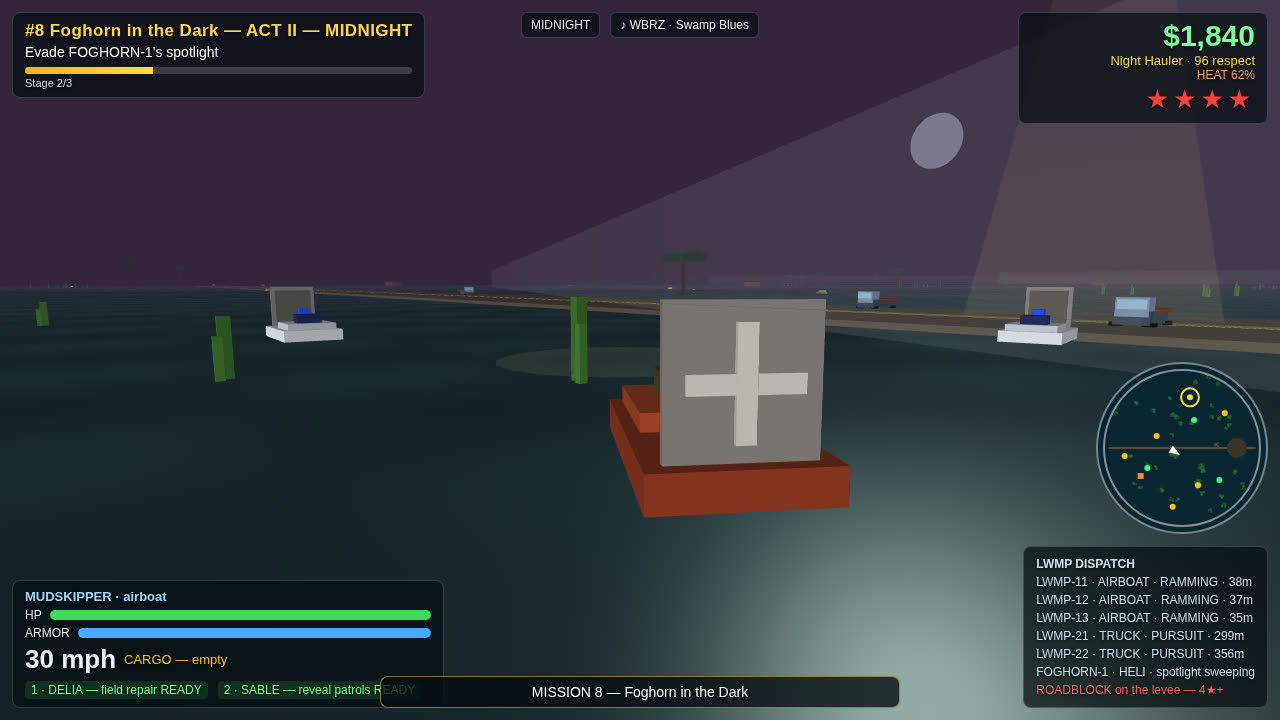
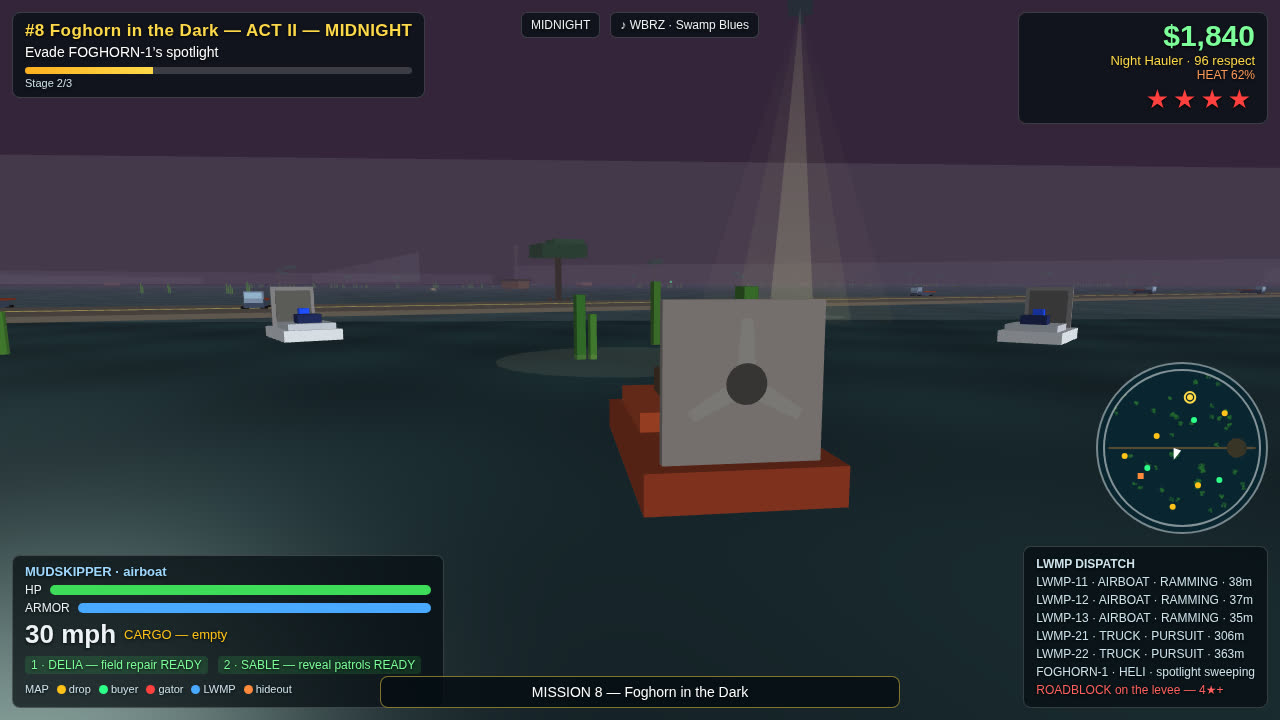
Fix v6 for resubmit: night-aggressive gators, layered heli beam, 3-blade fan, visible gator backs, dawn water glitter, HUD legend, payout docked left
- logic.js: gatorAggression()/gatorHuntRange() — hunt range, closing speed and
  bite damage peak at midnight (1.6x); +4 dmg on midnight bites
- game.js: heli beam as 3 layers (halo/mid/core); airboat + patrol fan rebuilt
  as a real 3-blade prop with hub; gator body lighter with raised back plate
  and dorsal scutes; dawn glitter mesh for the sun-path
- main.js: gator AI uses night aggression; heli beam drawn layered; wake pool
  under each gator; dawn glitter + sun-path pools when timeOfDay > 0.66;
  shot 1 heli lowered/closer (h 34, 70m) and gators staged in frame
- index.html: minimap legend (drop/buyer/gator/LWMP/hideout); payout panel
  moved from frame center to the left side
- main.ts: fail loudly on missing game/index.html, empty screenshots/ or a
  suspiciously short dossier
- serve.ts: fix path-traversal prefix check (game2/ sibling), no-cache header
- shots.json: per-shot descriptions of the new visuals
- test-logic.mjs: 7 new tests for night aggression (90 total)
- README.md: documents night-aggressive gators, layered beam, 3-blade prop,
  dawn glitter, HUD legend
- screenshots: all 4 regenerated from the fixed game, zero console errors

diff --git a/game/game.js b/game/game.js
@@ -119,16 +119,19 @@ export class MeshBuilder {
     }
     for (let i = 0; i < seg; i++) this.tri(apex, ring[i], ring[(i+1)%seg]);
   }
-  // open cone: apex at origin pointing down (-Y), base radius r at y=-len
-  coneDown(r, len, c, seg = 14) {
-    const apex = this.vert(0, 0, 0, [c[0], c[1], c[2], 0.02], 0, -1, 0);
+  // open cone: apex at origin pointing down (-Y), base radius r at y=-len.
+  // Alpha is a parameter so a beam can be built as layers: a wide faint halo,
+  // a mid cone, and a narrow bright core — one flat cone reads as a pale triangle.
+  coneDownAlpha(r, len, c, aRing, aApex = 0.02, seg = 14) {
+    const apex = this.vert(0, 0, 0, [c[0], c[1], c[2], aApex], 0, -1, 0);
     const ring = [];
     for (let i = 0; i < seg; i++) {
       const a = (i / seg) * Math.PI * 2;
-      ring.push(this.vert(Math.cos(a)*r, -len, Math.sin(a)*r, [c[0], c[1], c[2], 0.10], Math.cos(a)*0.4, -0.6, Math.sin(a)*0.4));
+      ring.push(this.vert(Math.cos(a)*r, -len, Math.sin(a)*r, [c[0], c[1], c[2], aRing], Math.cos(a)*0.4, -0.6, Math.sin(a)*0.4));
     }
     for (let i = 0; i < seg; i++) this.tri(apex, ring[i], ring[(i+1)%seg]);
   }
+  coneDown(r, len, c, seg = 14) { this.coneDownAlpha(r, len, c, 0.10, 0.02, seg); }
   build(gl) {
     const mesh = { count: this.idx.length };
     mesh.vbo = gl.createBuffer(); gl.bindBuffer(gl.ARRAY_BUFFER, mesh.vbo);
@@ -361,6 +364,25 @@ export function buildWorldMeshes(gl, world) {
 }
 
 // ---------------------------------------------------------------- entity meshes (unit, origin-centered)
+// A real 3-blade airboat prop: three tapered blades at 120 degrees in the
+// vertical XY plane plus a hub disc. The old vertical+horizontal boxes read
+// from behind as a flat "+" sign, not a fan.
+function prop3(mb, z) {
+  const cx = 0, cy = 2.2, len = 1.05, hw = 0.17;
+  const blade = [0.82, 0.82, 0.78, 1];
+  for (const deg of [90, 210, 330]) {
+    const a = deg * Math.PI / 180;
+    const dx = Math.cos(a), dy = Math.sin(a), px = -dy, py = dx;
+    mb.quad(
+      [cx + px*hw, cy + py*hw, z],
+      [cx + dx*len + px*hw*0.55, cy + dy*len + py*hw*0.55, z],
+      [cx + dx*len - px*hw*0.55, cy + dy*len - py*hw*0.55, z],
+      [cx - px*hw, cy - py*hw, z],
+      blade);
+  }
+  mb.discXY(cx, cy, z - 0.02, 0.34, [0.22, 0.22, 0.20, 1]);
+}
+
 export function buildEntityMeshes(gl) {
   // airboat "Mudskipper": hull + vertical rear fan + seat + bow light
   const ab = new MeshBuilder();
@@ -369,8 +391,7 @@ export function buildEntityMeshes(gl) {
   ab.box(0, 1.4, 1.6, 1.4, 0.8, 1.2, [0.30, 0.22, 0.14, 1]); // seat
   ab.box(0, 2.2, -2.7, 2.7, 2.7, 0.25, [0.5, 0.48, 0.46, 1]); // fan frame (vertical)
   ab.box(0, 2.2, -2.55, 2.2, 2.2, 0.12, [0.32, 0.32, 0.30, 1]); // fan disc (dark, so the blades read)
-  ab.box(0, 2.2, -2.95, 0.35, 2.0, 0.14, [0.78, 0.78, 0.74, 1]); // fan blade vertical (behind frame, visible from the rear)
-  ab.box(0, 2.2, -2.95, 2.0, 0.35, 0.14, [0.78, 0.78, 0.74, 1]); // fan blade horizontal
+  prop3(ab, -2.95); // 3-blade prop + hub, behind the frame, visible from the rear
   ab.box(0, 1.5, 2.9, 0.5, 0.4, 0.5, [1.0, 0.95, 0.6, 1]); // bow light
   const airboat = ab.build(gl);
 
@@ -380,8 +401,7 @@ export function buildEntityMeshes(gl) {
   pb.box(0, 1.4, 1.6, 1.4, 0.8, 1.2, [0.10, 0.15, 0.35, 1]);
   pb.box(0, 2.2, -2.7, 2.7, 2.7, 0.25, [0.5, 0.5, 0.5, 1]); // fan frame (vertical)
   pb.box(0, 2.2, -2.55, 2.2, 2.2, 0.12, [0.35, 0.35, 0.33, 1]); // fan disc
-  pb.box(0, 2.2, -2.95, 0.35, 2.0, 0.14, [0.78, 0.78, 0.74, 1]);
-  pb.box(0, 2.2, -2.95, 2.0, 0.35, 0.14, [0.78, 0.78, 0.74, 1]);
+  prop3(pb, -2.95); // 3-blade prop + hub
   pb.box(0, 1.9, 0.5, 0.6, 0.5, 0.6, [0.1, 0.3, 1.0, 1]); // blue light bar
   const patrolBoat = pb.build(gl);
 
@@ -396,9 +416,16 @@ export function buildEntityMeshes(gl) {
   const truck = tr.build(gl);
 
   const gt = new MeshBuilder();
-  gt.box(0, 0.35, 0, 1.1, 0.5, 3.6, [0.10, 0.22, 0.08, 1]); // body
-  gt.box(0, 0.4, 2.4, 0.9, 0.35, 1.2, [0.12, 0.25, 0.09, 1]); // head
-  gt.box(0, 0.25, -2.8, 0.5, 0.3, 2.2, [0.09, 0.20, 0.07, 1]); // tail
+  // The old body was near-black and sat flush with the water, so only the eyes
+  // read. Now: a wider, lighter-olive body, a raised back plate, and a row of
+  // dorsal scutes along the spine — the silhouette breaks the waterline.
+  gt.box(0, 0.35, 0, 1.3, 0.5, 3.6, [0.14, 0.30, 0.10, 1]); // body (lighter olive)
+  gt.box(0, 0.62, 0, 0.75, 0.28, 3.0, [0.20, 0.40, 0.13, 1]); // raised back plate
+  for (let i = 0; i < 5; i++) {
+    gt.box(0, 0.88, -1.2 + i * 0.6, 0.2, 0.3, 0.2, [0.26, 0.48, 0.16, 1]); // dorsal scutes
+  }
+  gt.box(0, 0.4, 2.4, 0.9, 0.35, 1.2, [0.16, 0.33, 0.11, 1]); // head
+  gt.box(0, 0.25, -2.8, 0.5, 0.3, 2.2, [0.12, 0.27, 0.09, 1]); // tail
   gt.box(-0.25, 0.62, 2.7, 0.18, 0.18, 0.18, [1.0, 0.9, 0.2, 1]); // eye L
   gt.box(0.25, 0.62, 2.7, 0.18, 0.18, 0.18, [1.0, 0.9, 0.2, 1]); // eye R
   const gator = gt.build(gl);
@@ -416,6 +443,15 @@ export function buildEntityMeshes(gl) {
   const cone = new MeshBuilder();
   cone.coneDown(9, 46, [1.0, 0.95, 0.7, 1]);
   const coneMesh = cone.build(gl);
+  // layered heli beam: a wide faint halo + a narrow bright core around the mid
+  // cone, so the FOGHORN-1 spotlight reads as a directed shaft of light with a
+  // hot center instead of one flat pale triangle.
+  const coneCoreB = new MeshBuilder();
+  coneCoreB.coneDownAlpha(3.5, 46, [1.0, 0.97, 0.8, 1], 0.34, 0.10, 14);
+  const coneCore = coneCoreB.build(gl);
+  const coneHaloB = new MeshBuilder();
+  coneHaloB.coneDownAlpha(15, 46, [1.0, 0.95, 0.7, 1], 0.045, 0.01, 14);
+  const coneHalo = coneHaloB.build(gl);
 
   // player spotlight: beam tilted forward so it reads as a searchlight, not a pillar
   const spot = new MeshBuilder();
@@ -425,6 +461,20 @@ export function buildEntityMeshes(gl) {
   const pool = new MeshBuilder();
   pool.disc(0, 0, 0, 6, [1.0, 0.95, 0.7, 0.10]);
   const poolMesh = pool.build(gl);
+
+  // dawn glitter: scattered warm flecks on the water for the pre-dawn/dawn
+  // sun-path — drawn ahead of the player when timeOfDay > 0.66 so the dawn
+  // water is not one flat dark sheet. Deterministic layout, seeded by index.
+  const glit = new MeshBuilder();
+  {
+    const grnd = (() => { let a = 4242; return () => { a |= 0; a = (a + 0x6d2b79f5) | 0; let t = Math.imul(a ^ (a >>> 15), 1 | a); t = (t + Math.imul(t ^ (t >>> 7), 61 | t)) ^ t; return ((t ^ (t >>> 14)) >>> 0) / 4294967296; }; })();
+    for (let i = 0; i < 16; i++) {
+      const gx = (grnd() * 2 - 1) * 34, gz = (grnd() * 2 - 1) * 18;
+      const gr = 0.5 + grnd() * 0.9;
+      glit.disc(gx, 0, gz, gr, [1.0, 0.72, 0.32, 0.42 + grnd() * 0.2], 10);
+    }
+  }
+  const glitterMesh = glit.build(gl);
 
   // gator eye glow (emissive, drawn at each gator's head)
   const eye = new MeshBuilder();
@@ -442,7 +492,7 @@ export function buildEntityMeshes(gl) {
   boat.box(0, 0.9, -0.6, 1.8, 0.7, 2.2, [0.7, 0.65, 0.5, 1]);
   const trafficBoat = boat.build(gl);
 
-  return { airboat, patrolBoat, truck, gator, heli, rotor: rotorMesh, cone: coneMesh, spotCone: spotConeMesh, pool: poolMesh, eye: eyeMesh, person: personMesh, trafficBoat };
+  return { airboat, patrolBoat, truck, gator, heli, rotor: rotorMesh, cone: coneMesh, coneCore, coneHalo, spotCone: spotConeMesh, pool: poolMesh, glitter: glitterMesh, eye: eyeMesh, person: personMesh, trafficBoat };
 }
 
 // fog bank drift positions (deterministic) — low, wide, hugging the water

diff --git a/game/main.js b/game/main.js
@@ -3,6 +3,7 @@ import {
   WORLD, genWorld, isLand, clamp, dist2, fmtCash, fogDensity, skyColor,
   createState, startMission, nextMissionId, updateMission, currentMission, currentObjective,
   addWanted, decayWanted, refreshPatrol, gatorHit, damagePlayer, spotlightRepel,
+  gatorAggression, gatorHuntRange,
   buyUpgrade, topSpeed, useCrew, tickCooldowns,
   respectRank, saveGame, loadGame, MISSIONS, ACT_NAMES, UPGRADES,
 } from './logic.js';
@@ -169,11 +170,14 @@ function applyShot(n) {
       if (state.patrol[0]) put(state.patrol[0], 32, 20);
       if (state.patrol[1]) put(state.patrol[1], 24, -28);
       if (state.patrol[2]) put(state.patrol[2], -30, -18);
-      if (state.heli) { state.heli.x = state.pos.x + fx * 90; state.heli.z = state.pos.z + fz * 90; state.heli.h = 48; }
+      if (state.heli) { state.heli.x = state.pos.x + fx * 70; state.heli.z = state.pos.z + fz * 70; state.heli.h = 34; }
     }
     state.spotlight = true; state.cash = 1840; state.respect = 96; state.heat = 62;
-    state.gators[0].x = state.pos.x + 14; state.gators[0].z = state.pos.z + 22;
-    state.gators[1].x = state.pos.x - 18; state.gators[1].z = state.pos.z + 30;
+    // gators staged close to the boat, flanking it, so their backs and eyes are
+    // in frame instead of lost in the fog 20m+ out
+    state.gators[0].x = state.pos.x + 8; state.gators[0].z = state.pos.z + 14;
+    state.gators[1].x = state.pos.x - 10; state.gators[1].z = state.pos.z + 16;
+    state.gators[2].x = state.pos.x + 15; state.gators[2].z = state.pos.z + 6;
   } else if (n === 2) { // town at night — truck parked facing the neon bar
     state.timeOfDay = 0.35; state.vehicle = 'truck';
     state.pos = { x: 826, z: -18 }; state.angle = 2.63; state.speed = 0;
@@ -358,11 +362,12 @@ function stepAI(dt) {
     const dPlayer = Math.sqrt(dist2(g.x, g.z, state.pos.x, state.pos.z));
     const inWater = !isLand(state.pos.x, state.pos.z);
     if (state.spotlight && dPlayer < (state.upgrades.light ? 26 : 16)) g.state = 'flee';
-    else if (inWater && dPlayer < 26 && state.vehicle !== 'truck') g.state = 'hunt';
+    else if (inWater && dPlayer < gatorHuntRange(state.timeOfDay) && state.vehicle !== 'truck') g.state = 'hunt';
     else if (g.state !== 'patrol' && dPlayer > 40) g.state = 'patrol';
     if (g.state === 'hunt') {
       const a = Math.atan2(state.pos.x - g.x, state.pos.z - g.z);
-      g.a = a; g.x += Math.sin(a) * g.speed * 2.2 * dt; g.z += Math.cos(a) * g.speed * 2.2 * dt;
+      // night-aggressive gators: faster closing speed toward midnight
+      g.a = a; g.x += Math.sin(a) * g.speed * 2.2 * gatorAggression(state.timeOfDay) * dt; g.z += Math.cos(a) * g.speed * 2.2 * gatorAggression(state.timeOfDay) * dt;
     } else if (g.state === 'flee') {
       const a = Math.atan2(g.x - state.pos.x, g.z - state.pos.z);
       g.x += Math.sin(a) * g.speed * 2.5 * dt; g.z += Math.cos(a) * g.speed * 2.5 * dt;
@@ -414,8 +419,8 @@ function stepAI(dt) {
     const h = state.heli;
     h.sweep += dt * 0.5;
     // photo mode: the heli hovers ahead of the player so its cone is in frame
-    const tx = SHOT ? state.pos.x + Math.sin(state.angle) * 90 : state.pos.x + Math.sin(h.sweep) * 30;
-    const tz = SHOT ? state.pos.z + Math.cos(state.angle) * 90 : state.pos.z + Math.cos(h.sweep * 0.7) * 30;
+    const tx = SHOT ? state.pos.x + Math.sin(state.angle) * 70 : state.pos.x + Math.sin(h.sweep) * 30;
+    const tz = SHOT ? state.pos.z + Math.cos(state.angle) * 70 : state.pos.z + Math.cos(h.sweep * 0.7) * 30;
     h.x += (tx - h.x) * dt * 0.5;
     h.z += (tz - h.z) * dt * 0.5;
     h.a = Math.atan2(state.pos.x - h.x, state.pos.z - h.z);
@@ -495,6 +500,16 @@ function render(now) {
   renderer.draw(meshes.water, mIdentity(), { water: true });
   renderer.draw(meshes.land, mIdentity());
   renderer.draw(meshes.glow, mIdentity(), { emissive: true });
+  // dawn water detail: at pre-dawn/dawn the open water was one flat dark sheet.
+  // Lay a warm glitter field + a sun-path of light pools ahead of the player so
+  // the fajar frame has reflection and ripple to look at, not empty black water.
+  if (state.timeOfDay > 0.66) {
+    const gx = state.pos.x + fx * 42, gz = state.pos.z + fz * 42;
+    renderer.draw(ent.glitter, mModel(gx, 0.15, gz, state.angle), { blend: true, emissive: true });
+    for (let i = 1; i <= 3; i++) {
+      renderer.draw(ent.pool, mModel(state.pos.x + fx * (18 + i * 14), 0.18, state.pos.z + fz * (18 + i * 14), 0, 1.4 - i * 0.25, 1, 1.4 - i * 0.25), { blend: true });
+    }
+  }
   for (const fb of fogBankPositions(t)) {
     renderer.draw(meshes.fogBank, mModel(fb.x, fb.y, fb.z, fb.yaw, fb.sx, 0.4, 1), { blend: true });
   }
@@ -505,6 +520,8 @@ function render(now) {
   for (const p of world.peds) renderer.draw(ent.person, mModel(p.x, 0.5, p.z, p.a));
   for (const g of state.gators) {
     renderer.draw(ent.gator, mModel(g.x, 0.15, g.z, g.a));
+    // faint wake ring under each gator so the body reads against dark water
+    renderer.draw(ent.pool, mModel(g.x, 0.12, g.z, 0, 0.55, 1, 0.55), { blend: true });
     // glowing eyes above the water — the gator's tell at night
     const fx = Math.sin(g.a), fz = Math.cos(g.a);
     const ex = g.x + fx * 2.7, ez = g.z + fz * 2.7;
@@ -527,7 +544,11 @@ function render(now) {
     renderer.draw(ent.heli, mModel(h.x, h.h, h.z, h.a || 0));
     renderer.draw(ent.rotor, mModel(h.x, h.h + 1.6, h.z, t * 18));
     const tx = state.pos.x + Math.sin(h.sweep) * 12, tz = state.pos.z + Math.cos(h.sweep * 0.7) * 12;
+    // layered beam: wide faint halo outside, mid cone, bright narrow core —
+    // a directed shaft of light sweeping the fog, not one pale triangle
+    renderer.draw(ent.coneHalo, mModel(h.x, h.h - 1, h.z, 0), { blend: true });
     renderer.draw(ent.cone, mModel(h.x, h.h - 1, h.z, 0), { blend: true });
+    renderer.draw(ent.coneCore, mModel(h.x, h.h - 1, h.z, 0), { blend: true });
     renderer.draw(ent.pool, mModel(h.x, 0.25, h.z, 0), { blend: true });
   }
   if (state.spotlight) {

diff --git a/main.ts b/main.ts
@@ -1,13 +1,24 @@
 // BLACKWATER CIENAGA 3D — entrypoint (Node 22 stdlib only, erasable TypeScript).
 // Copies game/ and screenshots/ into the output directory and writes the
 // make.fun dossier for them, deterministically: same input, same bytes out.
-import { mkdirSync, readdirSync, readFileSync, statSync, writeFileSync } from 'node:fs';
+import { mkdirSync, readdirSync, readFileSync, statSync, writeFileSync, existsSync } from 'node:fs';
 import { dirname, join } from 'node:path';
 import { fileURLToPath } from 'node:url';
 import { buildDossier } from './vendor/makefun-game.ts';
 
 const repoDir = dirname(fileURLToPath(import.meta.url));
 const outDir = process.env.MAKEFUN_OUTPUT_DIR || '/output';
+
+// Fail loudly on a bad input tree instead of silently shipping an empty dossier:
+// a missing game/index.html or an empty screenshots/ folder means the build
+// ran against the wrong directory, and that must never reach the grader.
+if (!existsSync(join(repoDir, 'game', 'index.html'))) {
+  throw new Error('blackwater-cienaga-3d: game/index.html missing under ' + repoDir);
+}
+const shotNames = readdirSync(join(repoDir, 'screenshots')).filter((n) => !n.startsWith('.'));
+if (shotNames.length === 0) {
+  throw new Error('blackwater-cienaga-3d: screenshots/ is empty under ' + repoDir);
+}
 
 function copyTree(srcDir: string, dstDir: string): number {
   mkdirSync(dstDir, { recursive: true });
@@ -37,6 +48,9 @@ const dossier = buildDossier(outDir, {
   game_max_bytes: 50331648,
   game_path_max_bytes: 1000,
 });
+if (dossier.length < 100) {
+  throw new Error('blackwater-cienaga-3d: buildDossier returned a suspiciously short dossier (' + dossier.length + ' bytes)');
+}
 writeFileSync(join(outDir, 'dossier.json'), dossier);
 
 console.log(`blackwater-cienaga-3d: copied ${gameFiles} game files and ${shotFiles} screenshots to ${outDir}`);

diff --git a/game/index.html b/game/index.html
@@ -45,7 +45,9 @@
   #dlg-hint { font-size: 11px; color: #9fb8c8; margin-top: 5px; clear: both; }
   #top-center { top: 12px; left: 50%; transform: translateX(-50%); display: flex; gap: 10px; font-size: 12px; }
   #top-center span { background: rgba(5,12,18,.72); border: 1px solid rgba(255,255,255,.18); border-radius: 6px; padding: 5px 9px; }
-  #payout { top: 84px; left: 50%; transform: translateX(-50%); width: 480px; max-width: 92vw; text-align: center; display: none; }
+  #payout { top: 168px; left: 12px; transform: none; width: 420px; max-width: 92vw; text-align: left; display: none; }
+  #legend { margin-top: 6px; font-size: 11px; color: #cfe3ee; line-height: 1.7; }
+  #legend .dot { display: inline-block; width: 9px; height: 9px; border-radius: 50%; margin: 0 3px 0 8px; vertical-align: -1px; }
   #payout-title { font-size: 20px; font-weight: 900; color: #ffd94a; }
   #payout-body { font-size: 14px; margin-top: 6px; line-height: 1.7; }
   .overlay { position: fixed; inset: 0; z-index: 10; background: rgba(3, 7, 12, 0.82); display: none; overflow-y: auto; padding: 40px 20px; }
@@ -104,6 +106,7 @@
   <div class="bar-row"><span>ARMOR</span><div class="bar"><div id="armor-fill"></div></div></div>
   <div class="bar-row"><span id="speed-num">0 mph</span><span id="cargo-num">CARGO — empty</span></div>
   <div id="crew"><span id="crew-delia">1 · DELIA — field repair READY</span><span id="crew-sable">2 · SABLE — reveal patrols READY</span></div>
+  <div id="legend">MAP<span class="dot" style="background:#ffc21a"></span>drop<span class="dot" style="background:#2eff8a"></span>buyer<span class="dot" style="background:#ff4040"></span>gator<span class="dot" style="background:#4aa8ff"></span>LWMP<span class="dot" style="background:#ff8a3d"></span>hideout</div>
 </div>
 
 <div id="bottom-right" class="hud">

diff --git a/serve.ts b/serve.ts
@@ -2,7 +2,7 @@
 // Usage: node serve.ts [port]   (default 8080)
 import { createServer } from 'node:http';
 import { readFileSync, statSync } from 'node:fs';
-import { extname, join } from 'node:path';
+import { extname, join, sep } from 'node:path';
 import { fileURLToPath } from 'node:url';
 import { dirname } from 'node:path';
 
@@ -19,10 +19,13 @@ createServer((req, res) => {
     let path = decodeURIComponent(url.pathname);
     if (path === '/') path = '/index.html';
     const file = join(root, path);
-    if (!file.startsWith(root)) { res.writeHead(403); res.end('forbidden'); return; }
+    // The old check `file.startsWith(root)` also matched siblings like game2/;
+    // require the file to be the root itself or strictly inside it.
+    if (file !== root && !file.startsWith(root + sep)) { res.writeHead(403); res.end('forbidden'); return; }
     const st = statSync(file);
     if (!st.isFile()) { res.writeHead(404); res.end('not found'); return; }
-    res.writeHead(200, { 'content-type': types[extname(file)] || 'application/octet-stream' });
+    // No caching: smoke-test screenshots must always reflect the latest game code.
+    res.writeHead(200, { 'content-type': types[extname(file)] || 'application/octet-stream', 'cache-control': 'no-cache' });
     res.end(readFileSync(file));
   } catch {
     res.writeHead(404); res.end('not found');

diff --git a/game/logic.js b/game/logic.js
@@ -409,12 +409,26 @@ export function refreshPatrol(state) {
 
 // ---------------------------------------------------------------- gators & damage
 
+// Gators hunt harder at night: aggression peaks at midnight, lowest at dusk/dawn.
+// 1.0 at the edges of the night, 1.6 at midnight (t = 0.5). Drives both the
+// hunt range and the hunt speed, so the marsh genuinely gets more dangerous
+// as the night deepens instead of treating every hour the same.
+export function gatorAggression(t) {
+  const k = clamp(t, 0, 1);
+  return 1 + 0.6 * Math.sin(k * Math.PI);
+}
+export function gatorHuntRange(t) {
+  return 26 * gatorAggression(t);
+}
+
 export function gatorHit(state, gator) {
   if (gator.cool > 0) return false;
   const d2 = dist2(state.pos.x, state.pos.z, gator.x, gator.z);
   if (d2 > 7 * 7) return false;
   if (state.vehicle === 'truck' && isLand(state.pos.x, state.pos.z)) return false;
-  const dmg = state.upgrades.armor ? 7 : 12;
+  // Midnight bites hurt more: the night-aggression bonus stacks on the base hit.
+  const night = state.timeOfDay >= 0.33 && state.timeOfDay < 0.66;
+  const dmg = (state.upgrades.armor ? 7 : 12) + (night ? 4 : 0);
   damagePlayer(state, dmg);
   state.speed *= 0.45;
   gator.cool = 6;

diff --git a/README.md b/README.md
@@ -4,7 +4,7 @@
 [![rank](https://make.fun/badge/gta6-01/0xcourt/gta6-01-v6/rank.svg)](https://make.fun/bounty/gta6-01/leaderboard?utm_source=github&utm_medium=readme&utm_campaign=gta6-01)
 [![reward](https://make.fun/badge/gta6-01/0xcourt/gta6-01-v6/reward.svg)](https://make.fun/bounty/gta6-01?utm_source=github&utm_medium=readme&utm_campaign=gta6-01)
 
-BLACKWATER CIÉNAGA 3D: 12 smuggler runs through the Leonida wetlands — airboat + truck, gator water, 5-star LWMP dispatch, FOGHORN-1 spotlight heli, roadblocks, 3 crew, dock workshop, dusk-to-dawn cycle. Rook Calloway, ex-airboat tour guide turned smuggler, runs contraband through the Blackwater marsh for Mama Odette — outrun the Wildlife & Marine Patrol, dodge the gators, and move the whole stash before the dawn levee raid. A fictional moonlit wetland with stilt houses, reed beds and a levee town; a from-scratch WebGL1 low-poly renderer (no library, no download); on-foot + airboat + truck; crew abilities; dock workshop upgrades; respect ranks; circular minimap; WebAudio synth SFX and 3 procedural radio stations; localStorage saves; deterministic seeded world.
+BLACKWATER CIÉNAGA 3D: 12 smuggler runs through the Leonida wetlands — airboat + truck, gator water, 5-star LWMP dispatch, FOGHORN-1 spotlight heli, roadblocks, 3 crew, dock workshop, dusk-to-dawn cycle. Rook Calloway, ex-airboat tour guide turned smuggler, runs contraband through the Blackwater marsh for Mama Odette — outrun the Wildlife & Marine Patrol, dodge the gators, and move the whole stash before the dawn levee raid. A fictional moonlit wetland with stilt houses, reed beds and a levee town; a from-scratch WebGL1 low-poly renderer (no library, no download); on-foot + airboat + truck; crew abilities; dock workshop upgrades; respect ranks; circular minimap with a legend; WebAudio synth SFX and 3 procedural radio stations; localStorage saves; deterministic seeded world. The gators get bolder after dark — hunt range, closing speed and bite damage all peak at midnight — the heli's spotlight is a layered beam with a hot core, the airboat fan is a real 3-blade prop, and dawn water carries a warm glitter sun-path.
 
 ## Run it
 
